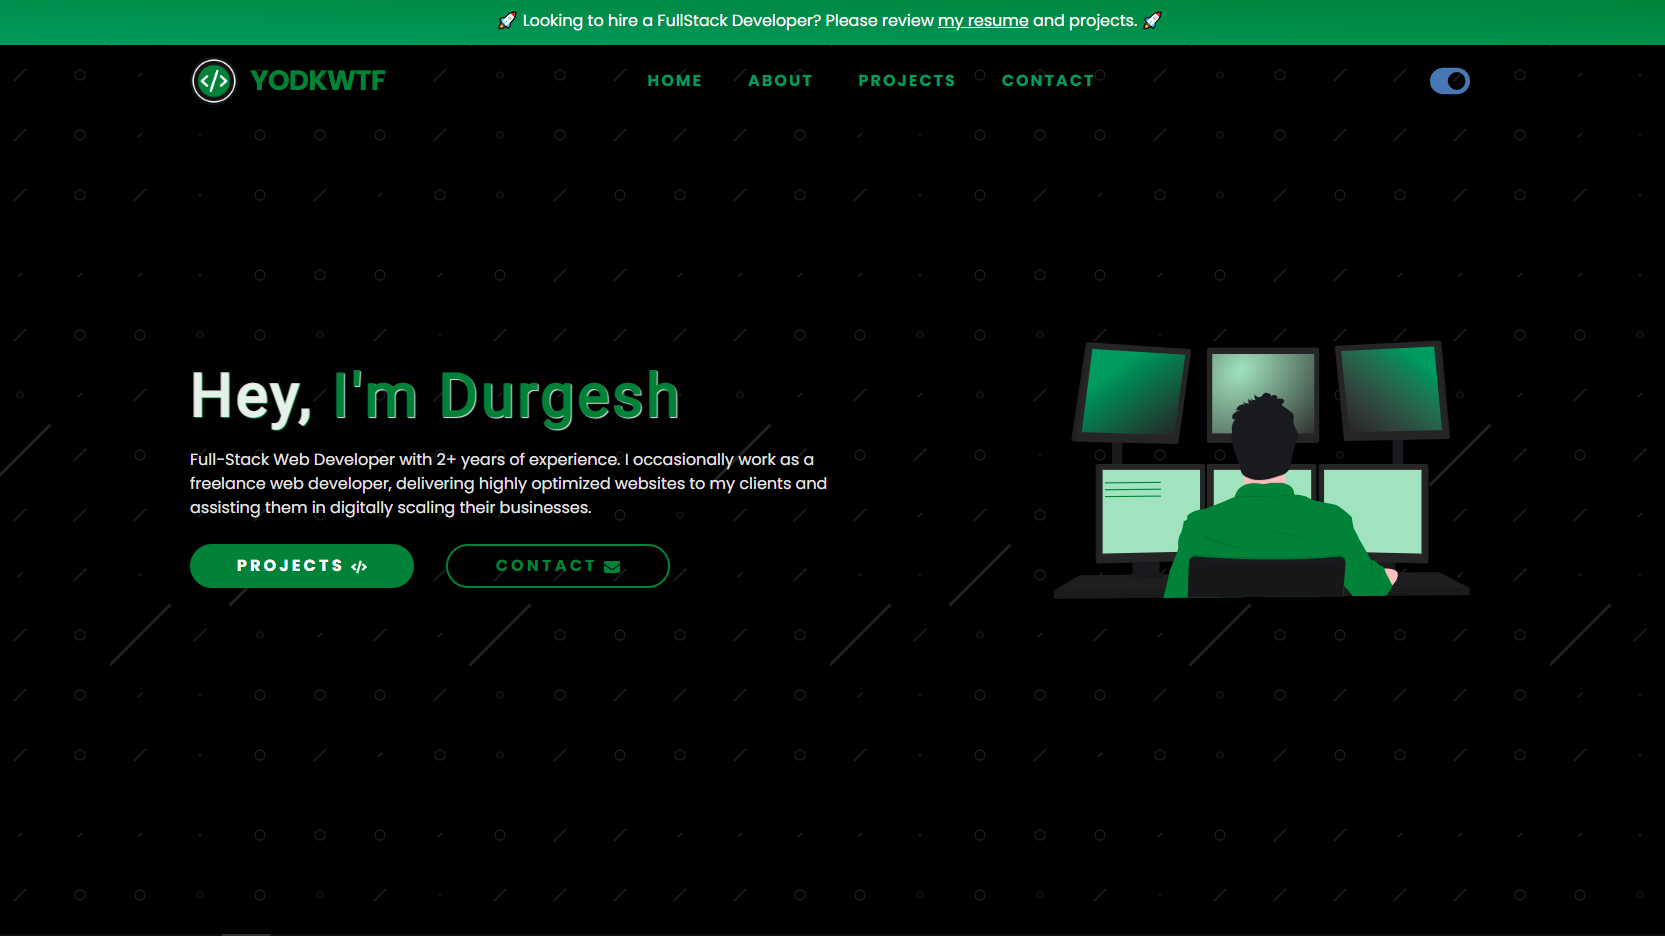
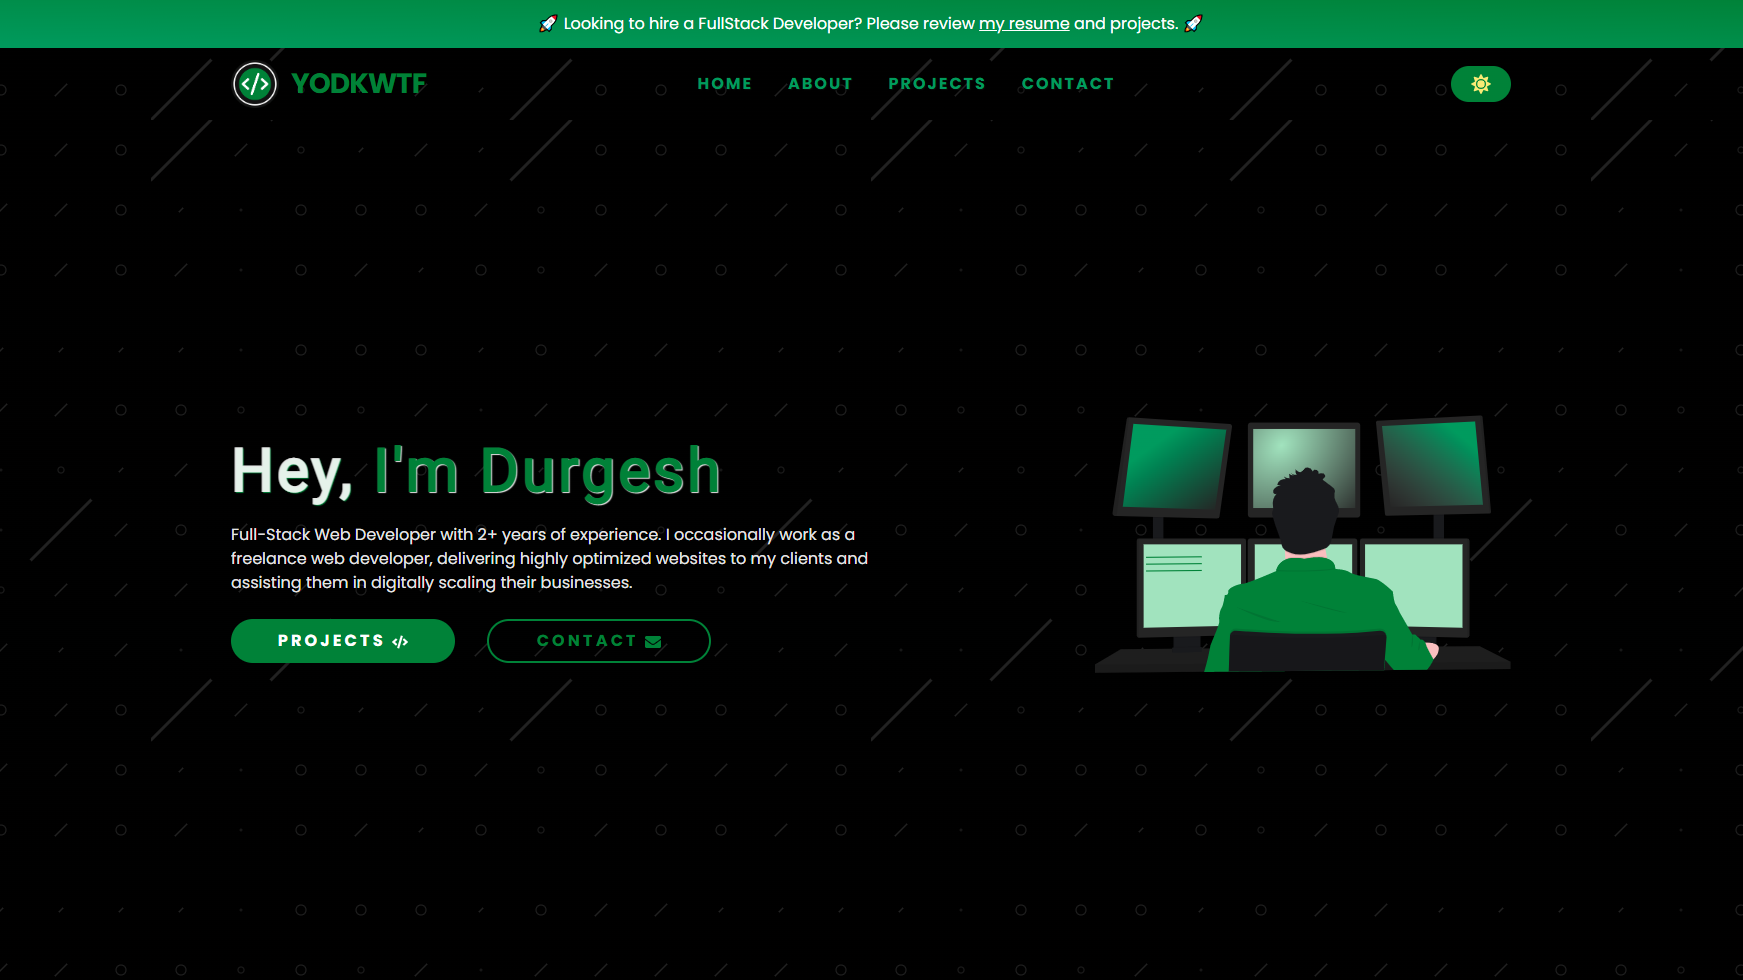
images optimization

diff --git a/src/data/utils.js b/src/data/utils.js
@@ -1,44 +1,41 @@
-import {
-  // FaInstagram,
-  FaTwitter,
-  FaLinkedin,
-  FaGithub,
-  // FaCodepen,
-  FaYoutube,
-} from 'react-icons/fa';
+import linkedin from '../images/contact/linkedin.svg';
+import twitter from '../images/contact/twitter.svg';
+import youtube from '../images/contact/youtube.svg';
+import gmail from '../images/contact/gmail.svg';
+import github from '../images/contact/github.svg';
 
 // **************************
 // social icons
 // **************************
 export const socialIcons = [
-  // {
-  //   id: 1,
-  //   icon: <FaInstagram className="fa instagram" />,
-  //   url: 'https://www.instagram.com/yodkwtf',
-  //   title: 'Instagram',
-  // },
+  {
+    id: 1,
+    icon: gmail,
+    url: 'mailto:48durgesh.kumar@gmail.com',
+    title: 'Gmail',
+  },
   {
     id: 2,
-    icon: <FaTwitter className="fa twitter" />,
+    icon: twitter,
     url: 'https://twitter.com/yodkwtf',
     title: 'Twitter',
   },
 
   {
     id: 3,
-    icon: <FaYoutube className="fa youtube" />,
+    icon: youtube,
     url: 'https://youtube.com/yodkwtf',
     title: 'YouTube',
   },
   {
     id: 4,
-    icon: <FaLinkedin className="fa linkedin" />,
+    icon: linkedin,
     url: 'https://www.linkedin.com/in/durgesh-chaudhary',
     title: 'LinkedIn',
   },
   {
     id: 5,
-    icon: <FaGithub className="fa github" />,
+    icon: github,
     url: 'https://github.com/yodkwtf',
     title: 'GitHub',
   },

diff --git a/src/index.css b/src/index.css
@@ -824,6 +824,9 @@ ABOUT
   padding: 0.1rem;
   border: 3px solid var(--clr-primary);
 }
+.links-page-img {
+  min-height: 134.8px;
+}
 .about-image-small,
 .links-page-image {
   border-radius: 50%;
@@ -1175,7 +1178,7 @@ CONTACT
 }
 .social-icons-container {
   display: grid;
-  grid-template-columns: repeat(4, 1fr);
+  grid-template-columns: repeat(5, 1fr);
   max-width: var(--fixed-width);
   padding: 0.8rem 0;
   margin: 0 auto;
@@ -1192,7 +1195,7 @@ CONTACT
     line-height: 0;
   }
 }
-.social-icon .fa {
+.social-icon img {
   transition: var(--transition);
   vertical-align: middle;
 }
@@ -1220,7 +1223,12 @@ CONTACT
 .social-icons-container span {
   display: none;
 }
-.social-icon:hover .fa {
+.social-icon img {
+  width: 2.25rem;
+  height: 2.25rem;
+}
+
+.social-icon:hover {
   transform: scale(1.1);
 }
 

diff --git a/src/components/Sidebar.js b/src/components/Sidebar.js
@@ -1,5 +1,5 @@
 import React from 'react';
-import { FaHandshake, FaTimes } from 'react-icons/fa';
+import { FaTimes } from 'react-icons/fa';
 import { AppContext } from '../context';
 import SocialIcons from './SocialIcons';
 import NavLinks from './NavLinks';
@@ -32,9 +32,7 @@ export const Sidebar = () => {
 
       {/* sidebar-icons */}
       <div className="sidebar-icons">
-        <h4>
-          Social Links <FaHandshake className="fa" />
-        </h4>
+        <h4>Social Links</h4>
         <div className="icons-container">
           <SocialIcons />
         </div>

diff --git a/src/components/SingleProject.js b/src/components/SingleProject.js
@@ -5,12 +5,7 @@ const SingleProject = ({ title, imgUrl, url, github }) => {
   return (
     <article className="single-project">
       <div className="single-project-img">
-        <img
-          src={imgUrl}
-          alt={title}
-          loading="lazy"
-          className="single-project-image"
-        />
+        <img src={imgUrl} alt={title} className="single-project-image" />
       </div>
       <div className="single-project-info">
         <h4 className="single-project-title">{title || 'Loading...'}</h4>

diff --git a/src/components/SocialIcons.js b/src/components/SocialIcons.js
@@ -14,7 +14,8 @@ const SocialIcons = () => {
             rel="noreferrer"
             title={title}
           >
-            {icon}&nbsp;<span>{title}</span>
+            <img src={icon} alt={title} />
+            &nbsp;<span>{title}</span>
           </a>
         );
       })}

diff --git a/README.md b/README.md
@@ -48,8 +48,8 @@ To run this project locally, run
 
 ## ToDo's
 
-- [ ] Add dummy images to projects on project page for loading
+- [x] Add dummy images to projects on project page for loading
 - [ ] Document the repo
-- [ ] Update the projects
+- [x] Update the projects
 - [ ] Work on lighthouse feedback
-- [ ] Give fix size to link page avatar
+- [x] Give fix size to link page avatar
